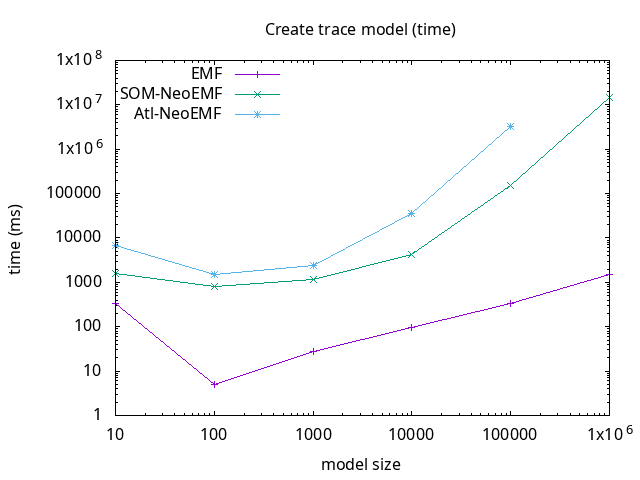
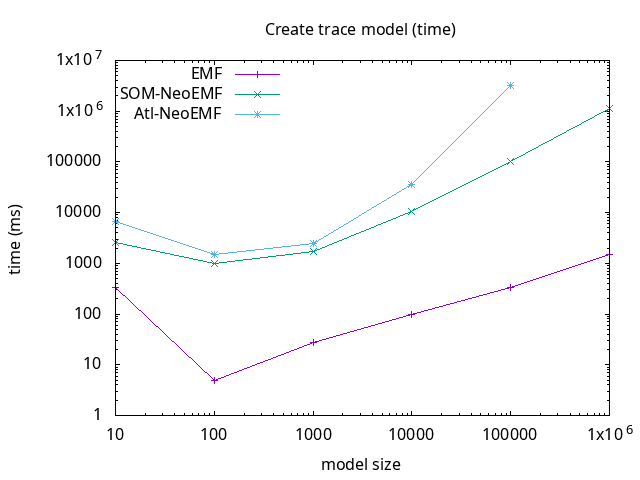
Create models with DirectWriteLongList

diff --git a/neoemf-integration/benchmarks/src/Creator.java b/neoemf-integration/benchmarks/src/Creator.java
@@ -7,6 +7,7 @@ import java.util.ArrayList;
 import java.util.Map;
 import java.util.Properties;
 
+import org.eclipse.emf.common.util.EList;
 import org.eclipse.emf.ecore.resource.Resource;
 import org.eclipse.emf.ecore.xmi.impl.XMIResourceFactoryImpl;
 
@@ -17,7 +18,6 @@ import fr.inria.atlanmod.neoemf.data.blueprints.util.BlueprintsURI;
 import fr.inria.atlanmod.neoemf.resource.PersistentResource;
 import fr.inria.atlanmod.neoemf.resource.PersistentResourceFactory;
 import trace.CommonTraceFactory;
-import trace.TraceFactory;
 import traceneoemf.TraceneoemfFactory;
 
 public class Creator {
@@ -27,9 +27,10 @@ public class Creator {
 
     Util.time("Populate trace", () -> {
       final trace.Trace t = factory.createTrace();
-      for (int i=0; i < iterations; ++i) {
-        ArrayList<trace.Log> logs = new ArrayList<>();
+      r.getContents().add(t);
+      EList<trace.Log> logs = t.getLogs();
 
+      for (int i=0; i < iterations; ++i) {
         {
           trace.Log log = factory.createLog();
           log.setMessage("CaptchaValidateFilter:doFilter()");
@@ -115,11 +116,7 @@ public class Creator {
           log.setLevel(trace.LogLevel.INFO);
           logs.add(log);
         }
-
-        t.getLogs().addAll(logs);
       }
-
-      r.getContents().add(t);
     });
   }
 
@@ -159,7 +156,7 @@ public class Creator {
 
     // Create trace models
     final int[] sizes = {10, 100, 1000, 10000, 100000, 1000000};
-
+/*
     for (int s : sizes) {
       Util.time(String.format("Create Java trace model of size %d", s), () -> {
         final Resource r = Util.createResource("/models/java-trace/%d.xmi", s);
@@ -167,8 +164,9 @@ public class Creator {
         r.save(null);
       });
     }
-
-    Map<String,Object> graphOptions = BlueprintsNeo4jOptionsBuilder.newBuilder().weakCache().autocommit().asMap();
+*/
+    Map<String,Object> graphOptions = BlueprintsNeo4jOptionsBuilder.newBuilder()
+        .weakCache().directWriteLongListSupport().autocommit().asMap();
     for (int s : sizes) {
       Util.time(String.format("Create NeoEMF trace model of size %d", s), () -> {
         final Resource r = Util.createResource("/models/neoemf-trace/%d.graphdb", s);

diff --git a/neoemf-integration/benchmarks/src/Util.java b/neoemf-integration/benchmarks/src/Util.java
@@ -4,7 +4,6 @@ import java.nio.file.Files;
 import java.nio.file.Paths;
 import java.time.Instant;
 import java.time.temporal.ChronoUnit;
-import java.util.Collections;
 import java.util.Iterator;
 import java.util.Map;
 
@@ -54,8 +53,10 @@ public class Util {
     Files.deleteIfExists(Paths.get(r.getURI().toFileString()));
   }
 
-  static Map<String,Object> loadOptions = BlueprintsNeo4jOptionsBuilder.newBuilder().softCache().asMap();
-  static Map<String,Object> saveOptions = BlueprintsNeo4jOptionsBuilder.newBuilder().weakCache().autocommit().asMap();
+  static Map<String,Object> loadOptions = BlueprintsNeo4jOptionsBuilder.newBuilder()
+      .softCache().asMap();
+  static Map<String,Object> saveOptions = BlueprintsNeo4jOptionsBuilder.newBuilder()
+      .weakCache().directWriteLongListSupport().autocommit().asMap();
 
   static Resource loadResource(URI uri) throws IOException {
     Resource r = new ResourceSetImpl().createResource(uri);
